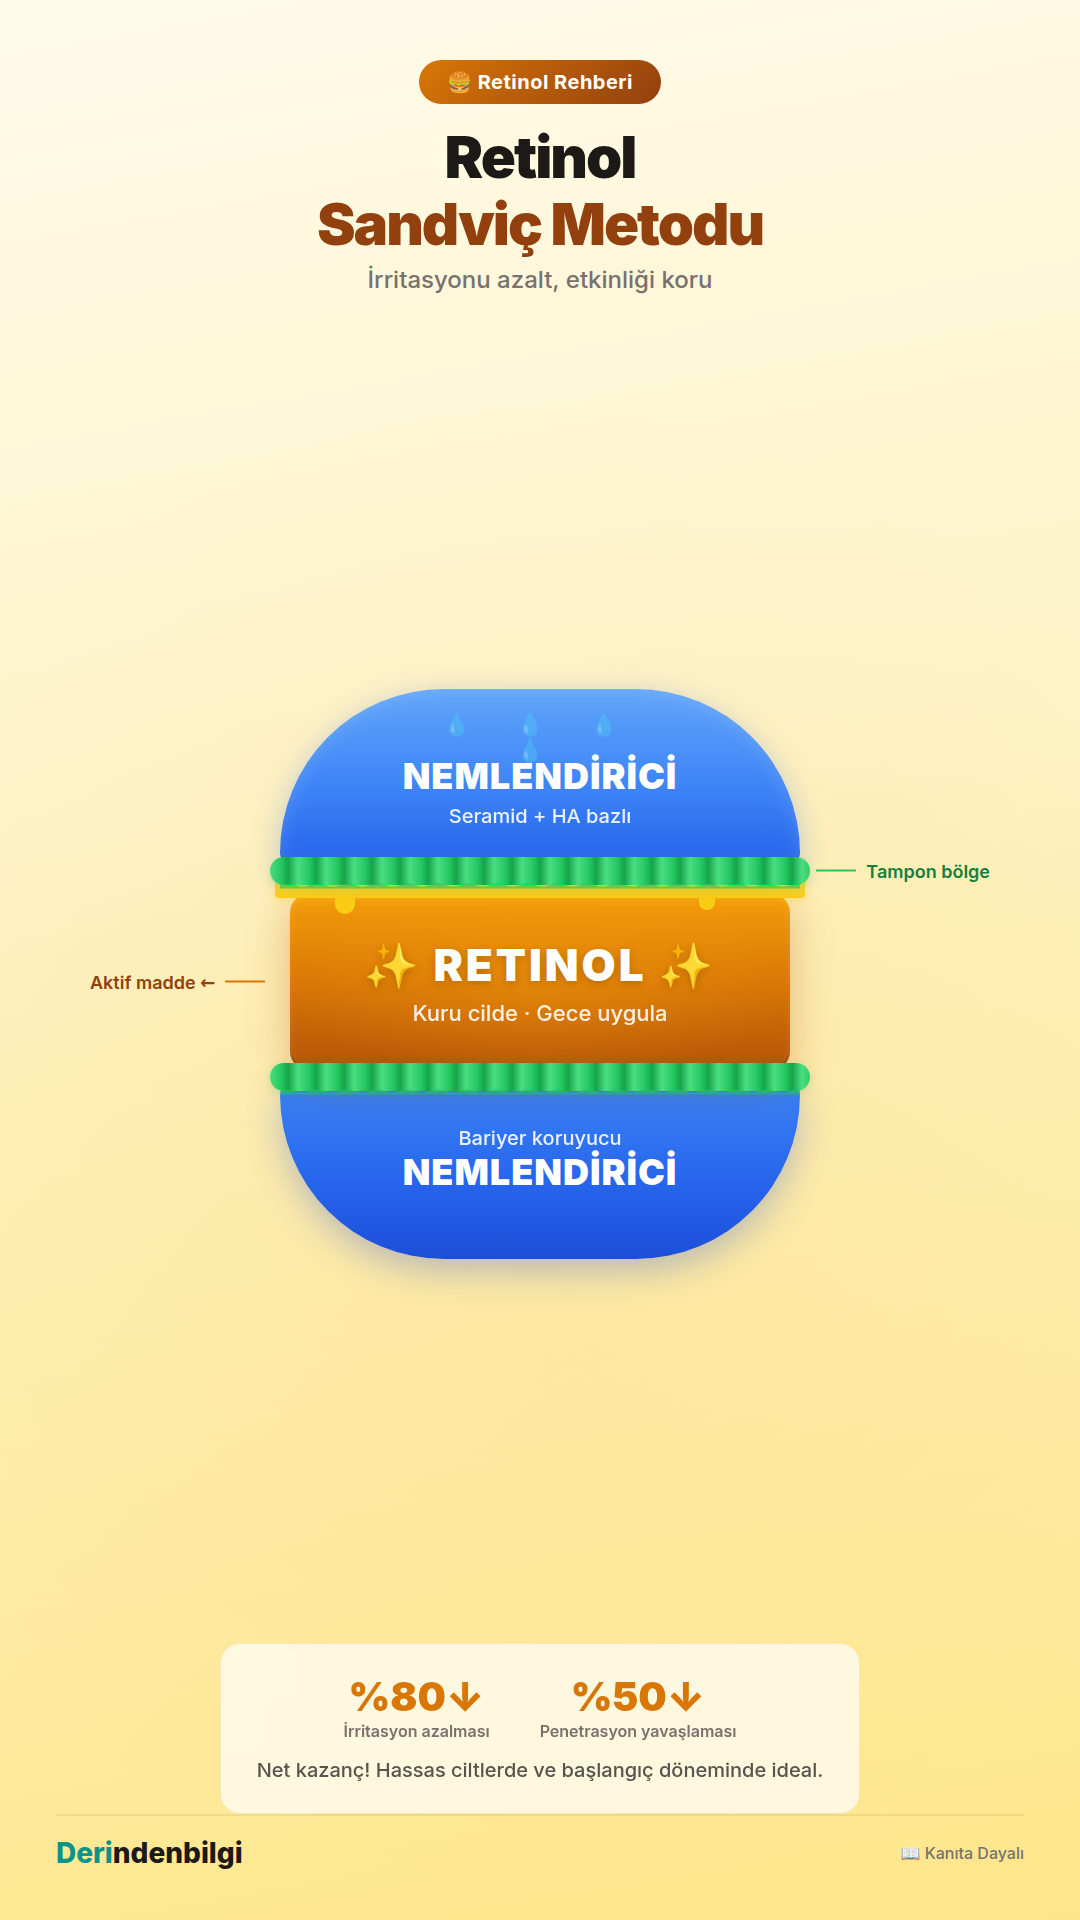
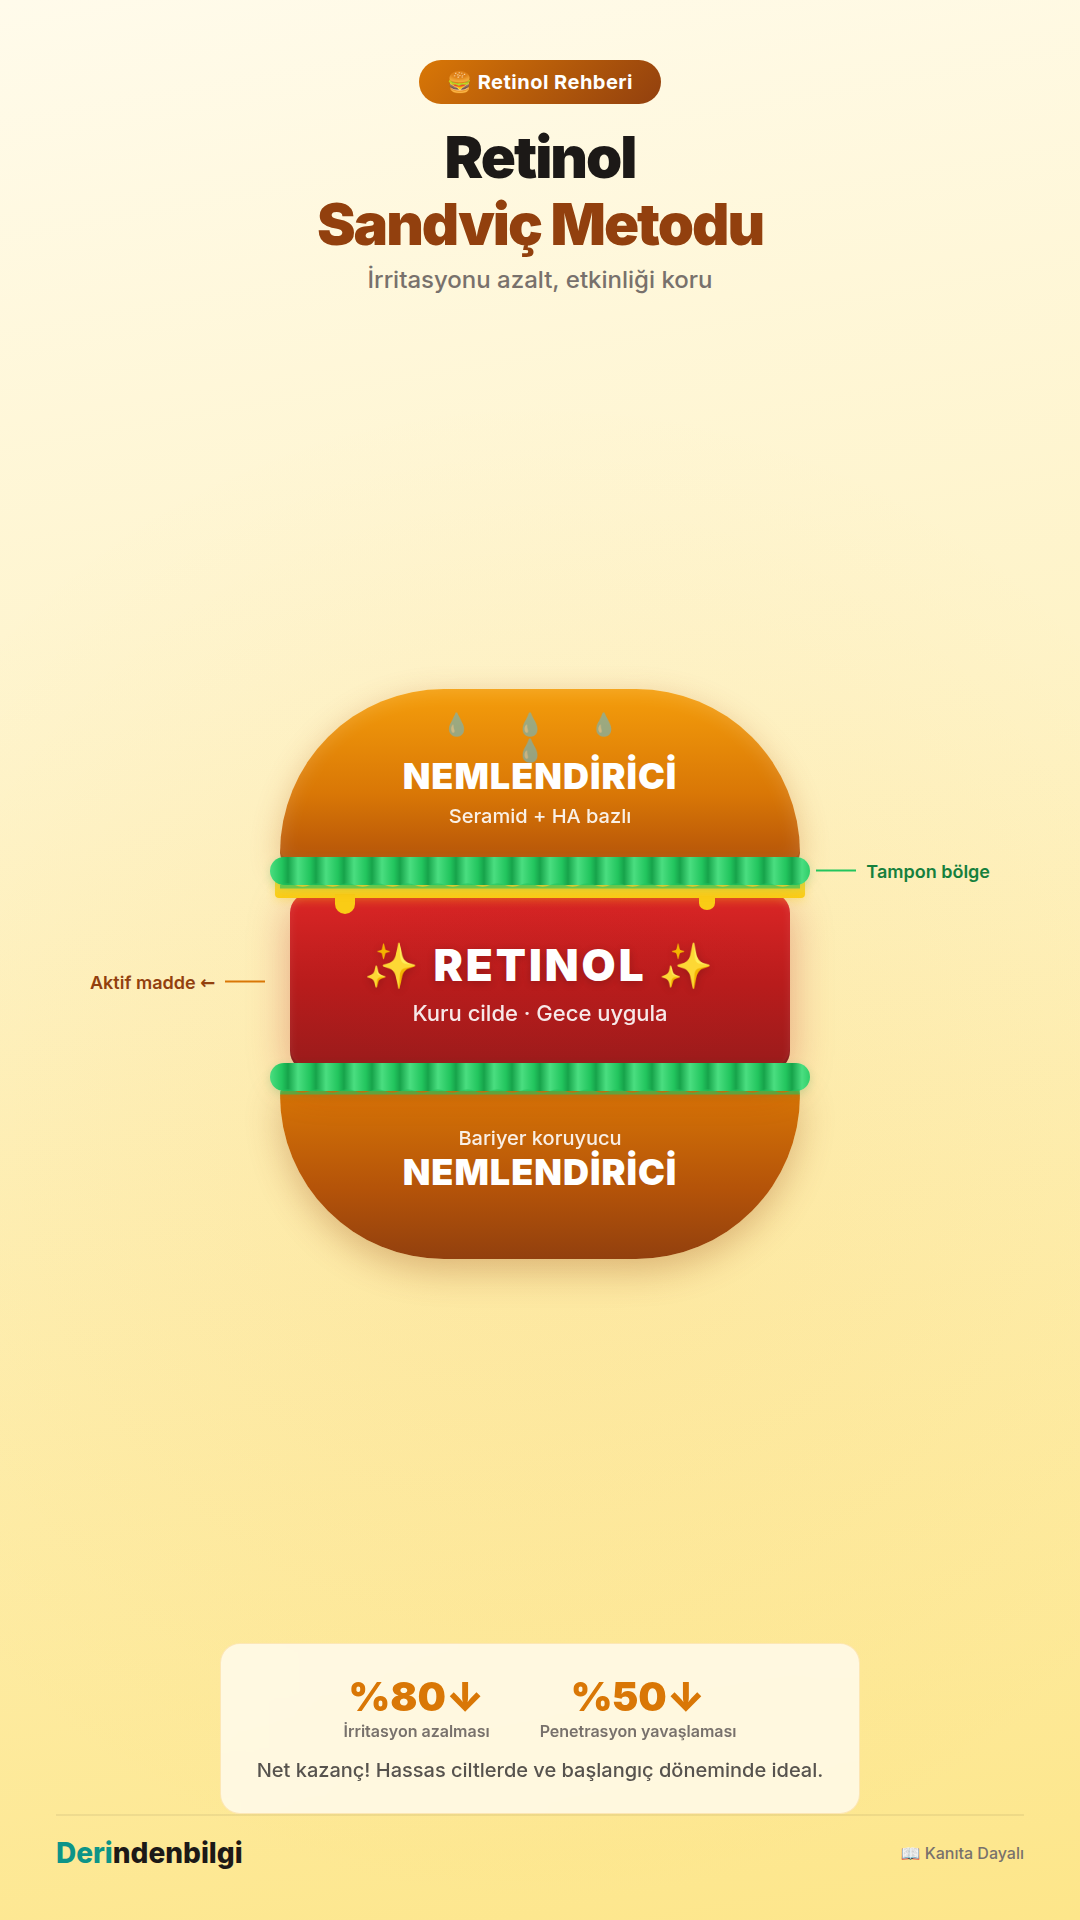
🍔 Hamburger renkleri gerçekçi — ekmek: altın/kahverengi, köfte: kırmızı, marul: yeşil

Changed region(s): [[0.2444, 0.3438, 0.7639, 0.6875]]

diff --git a/blog/retinol-gorsel-rehber.html b/blog/retinol-gorsel-rehber.html
@@ -674,12 +674,12 @@
 
         /* Top bun — rounded dome */
         .bun-top {
-            background: linear-gradient(180deg, #60a5fa, #3b82f6);
+            background: linear-gradient(180deg, #f59e0b, #d97706, #b45309);
             color: white;
             border-radius: 140px 140px 6px 6px;
             padding: 32px 24px 18px;
             font-size: 1rem;
-            box-shadow: 0 4px 15px rgba(59,130,246,0.25), inset 0 -3px 0 rgba(0,0,0,0.08);
+            box-shadow: 0 4px 15px rgba(180,83,9,0.3), inset 0 -3px 0 rgba(0,0,0,0.1);
             z-index: 3;
         }
         /* Sesame seeds */
@@ -693,6 +693,16 @@
             letter-spacing: 4px;
             opacity: 0.7;
         }
+        .bun-top::before {
+            content: '• • • • •';
+            position: absolute;
+            top: 8px;
+            left: 50%;
+            transform: translateX(-50%);
+            font-size: 0.55rem;
+            color: rgba(255,255,255,0.5);
+            letter-spacing: 8px;
+        }
         .bun-top .layer-label {
             font-size: 0.7rem;
             opacity: 0.85;
@@ -701,14 +711,14 @@
         }
         /* Retinol patty */
         .patty {
-            background: linear-gradient(180deg, #f59e0b, #d97706);
+            background: linear-gradient(180deg, #dc2626, #b91c1c, #991b1b);
             color: white;
-            border-radius: 8px;
+            border-radius: 10px;
             padding: 22px 24px;
             font-size: 1.2rem;
             font-weight: 900;
             letter-spacing: 1px;
-            box-shadow: 0 4px 20px rgba(245,158,11,0.35), inset 0 -3px 0 rgba(0,0,0,0.1);
+            box-shadow: 0 4px 20px rgba(185,28,28,0.35), inset 0 -3px 0 rgba(0,0,0,0.12);
             z-index: 2;
             margin: -4px 0;
             width: 260px;
@@ -725,19 +735,19 @@
             content: '';
             position: absolute;
             inset: -4px;
-            border-radius: 12px;
-            background: radial-gradient(ellipse, rgba(245,158,11,0.3), transparent 70%);
+            border-radius: 14px;
+            background: radial-gradient(ellipse, rgba(185,28,28,0.2), transparent 70%);
             z-index: -1;
             animation: pulse 2s ease-in-out infinite;
         }
         /* Bottom bun — flat base */
         .bun-bottom {
-            background: linear-gradient(180deg, #3b82f6, #2563eb);
+            background: linear-gradient(180deg, #d97706, #b45309, #92400e);
             color: white;
             border-radius: 6px 6px 140px 140px;
             padding: 18px 24px 28px;
             font-size: 1rem;
-            box-shadow: 0 6px 20px rgba(37,99,235,0.25), inset 0 3px 0 rgba(255,255,255,0.1);
+            box-shadow: 0 6px 20px rgba(146,64,14,0.3), inset 0 3px 0 rgba(255,255,255,0.08);
             z-index: 1;
         }
         .bun-bottom .layer-label {
@@ -778,8 +788,8 @@
             border-radius: 50%;
             flex-shrink: 0;
         }
-        .annotation .dot.blue { background: #3b82f6; }
-        .annotation .dot.gold { background: #f59e0b; }
+        .annotation .dot.blue { background: #d97706; }
+        .annotation .dot.gold { background: #dc2626; }
         .annotation .dot.green { background: #22c55e; }
         @media (max-width: 768px) {
             .bun, .patty, .bun-top, .bun-bottom { width: 240px; }

diff --git a/instagram/retinol-sandvic.html b/instagram/retinol-sandvic.html
@@ -88,11 +88,11 @@
   /* === TOP BUN — dome shape === */
   .bun-top {
     width: 520px;
-    background: linear-gradient(180deg, #60a5fa 0%, #3b82f6 60%, #2563eb 100%);
+    background: linear-gradient(180deg, #f59e0b 0%, #d97706 60%, #b45309 100%);
     border-radius: 260px 260px 16px 16px;
     padding: 65px 40px 35px;
     color: white;
-    box-shadow: 0 8px 30px rgba(37,99,235,0.3), inset 0 -4px 0 rgba(0,0,0,0.08), inset 0 2px 20px rgba(255,255,255,0.15);
+    box-shadow: 0 8px 30px rgba(180,83,9,0.3), inset 0 -4px 0 rgba(0,0,0,0.08), inset 0 2px 20px rgba(255,255,255,0.15);
     z-index: 5;
   }
 
@@ -207,12 +207,12 @@
   /* === PATTY — RETINOL === */
   .patty {
     width: 500px;
-    background: linear-gradient(180deg, #f59e0b 0%, #d97706 50%, #b45309 100%);
+    background: linear-gradient(180deg, #dc2626 0%, #b91c1c 50%, #991b1b 100%);
     border-radius: 20px;
     padding: 45px 40px;
     color: white;
     z-index: 3;
-    box-shadow: 0 10px 40px rgba(180,83,9,0.35), inset 0 -4px 0 rgba(0,0,0,0.12), inset 0 2px 10px rgba(255,255,255,0.1);
+    box-shadow: 0 10px 40px rgba(185,28,28,0.35), inset 0 -4px 0 rgba(0,0,0,0.12), inset 0 2px 10px rgba(255,255,255,0.1);
     margin: -2px 0;
   }
 
@@ -236,7 +236,7 @@
     position: absolute;
     inset: -8px;
     border-radius: 28px;
-    background: radial-gradient(ellipse, rgba(245,158,11,0.4), transparent 70%);
+    background: radial-gradient(ellipse, rgba(185,28,28,0.2), transparent 70%);
     z-index: -1;
   }
 
@@ -267,11 +267,11 @@
   /* === BOTTOM BUN === */
   .bun-bottom {
     width: 520px;
-    background: linear-gradient(180deg, #3b82f6 0%, #2563eb 60%, #1d4ed8 100%);
+    background: linear-gradient(180deg, #d97706 0%, #b45309 60%, #92400e 100%);
     border-radius: 16px 16px 260px 260px;
     padding: 35px 40px 65px;
     color: white;
-    box-shadow: 0 12px 35px rgba(29,78,216,0.3), inset 0 4px 0 rgba(255,255,255,0.08);
+    box-shadow: 0 12px 35px rgba(146,64,14,0.3), inset 0 4px 0 rgba(255,255,255,0.08);
     z-index: 2;
   }
 
